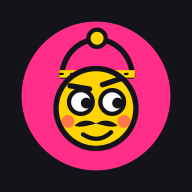
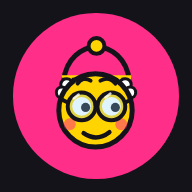
Slogans in Tamil/Bengali/Marathi/pan-India, Crowd wall, new Gyanu look
Claude-Session: https://claude.ai/code/session_01NcgF8VnE75NBUtn5BQALan

Changed region(s): [[0.0625, 0.0625, 0.9375, 0.9375]]

diff --git a/js/app.js b/js/app.js
@@ -1,6 +1,6 @@
 // GYANU HUNT · the player app. Vanilla JS, no framework, one module graph.
 import { CONFIG, ZONES, SCENE_CATS } from './config.js';
-import { T, SLOGANS, RULES_COPY, INTRO, TOUR, gsay } from './copy.js';
+import { T, SLOGANS, SLOGAN_SETS, SLOGAN_LANGS, defaultSloganLang, scriptOf, RULES_COPY, INTRO, TOUR, gsay } from './copy.js';
 import { RULES, speedBonus } from './rules.js';
 import { backend, cleanNick, cleanSlogan } from './backend.js';
 import { analyse, verify } from './verify.js';
@@ -62,18 +62,23 @@ function fillStatic() {
   document.querySelectorAll('#nav button').forEach(b => (b.querySelector('span').textContent = T.nav[b.dataset.v] || 'SCENE'));
 }
 
-let chosenSlogan = SLOGANS[0], wantHome = false, otpOk = CONFIG.otp === 'off', demoCode = null;
+let wantHome = false, otpOk = CONFIG.otp === 'off', demoCode = null;
+let sloganLang = defaultSloganLang(), chosenSlogan = SLOGAN_SETS[sloganLang][0];
+const langTabsHtml = (cur, attr = 'data-l') => SLOGAN_LANGS.map(([id, label]) => `<button class="chip${cur === id ? ' on' : ''}" ${attr}="${id}">${esc(label)}</button>`).join('');
+function renderJoinSlogans() {
+  const box = $('#slogans'), customOn = chosenSlogan === null;
+  $('#sloganLangs').innerHTML = langTabsHtml(sloganLang);
+  box.innerHTML = SLOGAN_SETS[sloganLang].map(x => `<button class="chip${x === chosenSlogan ? ' on' : ''}" data-s="${esc(x)}">${esc(x)}</button>`).join('') + `<button class="chip${customOn ? ' on' : ''}" data-custom="1">✍ ${esc(T.sloganCustom)}</button>`;
+}
 function showJoin(home) {
   wantHome = !!home;
   $('#landing').classList.add('hide'); $('#join').classList.remove('hide');
-  const box = $('#slogans');
-  const first = 0; chosenSlogan = SLOGANS[0];
-  box.innerHTML = SLOGANS.map((s, i) => `<button class="chip${i === first ? ' on' : ''}" data-s="${esc(s)}">${esc(s)}</button>`).join('') + `<button class="chip" data-custom="1">✍ ${esc(T.sloganCustom)}</button>`;
-  box.onclick = e => {
+  sloganLang = defaultSloganLang(); chosenSlogan = SLOGAN_SETS[sloganLang][0]; renderJoinSlogans();
+  $('#sloganLangs').onclick = e => { const b = e.target.closest('[data-l]'); if (!b) return; sloganLang = b.dataset.l; renderJoinSlogans(); };
+  $('#slogans').onclick = e => {
     const b = e.target.closest('button'); if (!b) return;
-    box.querySelectorAll('.chip').forEach(c => c.classList.remove('on')); b.classList.add('on');
     const custom = !!b.dataset.custom; $('#sloganCustom').classList.toggle('hide', !custom);
-    chosenSlogan = custom ? null : b.dataset.s; if (custom) $('#sloganCustom').focus();
+    chosenSlogan = custom ? null : b.dataset.s; renderJoinSlogans(); if (custom) $('#sloganCustom').focus();
   };
   $('#otpBox').classList.toggle('hide', CONFIG.otp === 'off');
   $('#nick').focus();
@@ -166,7 +171,7 @@ function renderStatus(offline) {
   const s = st?.stats, chips = [];
   if (offline) chips.push(`<span class="chip alert">📶 weak network — retrying</span>`);
   if (st?.settings.finalLive) chips.push(`<span class="chip alert">FINAL GYANU LIVE</span>`);
-  if (s) chips.push(`<span class="chip">🟢 ${s.online} hunting</span>`, `<span class="chip">🎯 ${s.caught} caught today</span>`);
+  if (s) chips.push(`<span class="chip">🟢 ${s.online} hunting</span>`, `<span class="chip">🎯 ${s.caught} caught today</span>`, `<button class="chip crowdchip" data-crowd="1">🪧 ${fmt(s.crowd || 0)} in the crowd</button>`);
   if (s?.busy?.length) chips.push(`<span class="chip alert">⚠ busy: ${s.busy.map(z => ZONES.find(q => q.id === z)?.short).join(', ')}</span>`);
   $('#status').innerHTML = chips.join('');
 }
@@ -574,10 +579,14 @@ async function renderProfile() {
     <button class="btn" style="background:var(--red);color:#fff" id="delMe">${esc(T.deleteBtn)}</button></div>`;
   $('#pShare').onclick = () => doShare(); $('#pW').onclick = startWhack;
   $('#editSl').onclick = () => {
-    const o = layer(`<h2 class="big" style="font-size:34px">NEW PLACARD</h2><div class="slogans" style="justify-content:center;margin:12px 0">${SLOGANS.map(s => `<button class="chip" data-s="${esc(s)}">${esc(s)}</button>`).join('')}</div>
+    let pl = defaultSloganLang();
+    const o = layer(`<h2 class="big" style="font-size:34px">NEW PLACARD</h2><div class="langtabs" id="pLangs" style="justify-content:center;margin-top:10px"></div><div class="slogans" id="pSl" style="justify-content:center;margin:12px 0"></div>
       <input class="field" id="sl2" maxlength="60" placeholder="${esc(T.sloganPh)}" style="max-width:360px"><p class="err" id="sle"></p>
       <div class="sw stack"><button class="btn pink" id="slGo">SAVE</button><button class="link" style="color:#fff" id="slX">cancel</button></div>`);
-    o.querySelector('.slogans').onclick = e => { const b = e.target.closest('[data-s]'); if (b) { o.querySelector('#sl2').value = b.dataset.s; o.querySelectorAll('.slogans .chip').forEach(c => c.classList.toggle('on', c === b)); } };
+    const paint = () => { o.querySelector('#pLangs').innerHTML = langTabsHtml(pl); o.querySelector('#pSl').innerHTML = SLOGAN_SETS[pl].map(x => `<button class="chip${o.querySelector('#sl2').value === x ? ' on' : ''}" data-s="${esc(x)}">${esc(x)}</button>`).join(''); };
+    paint();
+    o.querySelector('#pLangs').onclick = e => { const b = e.target.closest('[data-l]'); if (b) { pl = b.dataset.l; paint(); } };
+    o.querySelector('#pSl').onclick = e => { const b = e.target.closest('[data-s]'); if (b) { o.querySelector('#sl2').value = b.dataset.s; paint(); } };
     o.querySelector('#slX').onclick = () => o.remove();
     o.querySelector('#slGo').onclick = async () => { try { await backend.setSlogan(o.querySelector('#sl2').value); o.remove(); await refresh(); renderProfile(); } catch (e) { o.querySelector('#sle').textContent = e.message; } };
   };
@@ -590,6 +599,40 @@ async function renderProfile() {
       o.innerHTML = `<h2 class="big" style="font-size:36px">${esc(T.deleted)}</h2>`; setTimeout(() => location.reload(), 1200);
     };
   };
+}
+
+// ---------------------------------------------------------------- the crowd wall
+// A head-count and the placards people carry. No names, no scores, no locations. Anyone can look; anyone can join.
+async function openCrowd() {
+  if (document.querySelector('.wall')) return;
+  const joined = !!backend.meId(); let data = { total: 0, slogans: [] }, lang = 'all', picked = null, alive = true;
+  const o = layer('', 'wall');
+  const paint = () => {
+    const list = data.slogans.filter(x => lang === 'all' || scriptOf(x.s) === lang || (lang === 'hinglish' && scriptOf(x.s) === 'latin'));
+    const tabs = [['all', 'All'], ['hinglish', 'Hinglish / English'], ['tamil', 'தமிழ்'], ['bengali', 'বাংলা'], ['marathi', 'मराठी / हिंदी']];
+    o.innerHTML = `<div class="wallcard"><button class="fbx" id="wX" aria-label="Close">✕</button>
+      <h2>THE CROWD</h2>
+      <div class="wallcount"><b>${fmt(data.total)}</b><span>${data.total === 1 ? 'person' : 'people'} in the hunt right now</span></div>
+      <p class="wallsub">At the ground or on the couch, everyone counts. Outsiders welcome. Hunt, whack, chant and share, same game for all.</p>
+      <div class="langtabs">${tabs.map(([id, l]) => `<button class="chip${lang === id ? ' on' : ''}" data-wl="${id}">${esc(l)}</button>`).join('')}</div>
+      <div class="wallgrid">${list.length ? list.map((x, i) => `<button class="placard c${i % 5}${picked === x.s ? ' sel' : ''}" data-p="${i}" style="--r:${((i * 37) % 7 - 3) * 0.6}deg">${esc(x.s)}${x.n > 1 ? `<i>×${fmt(x.n)}</i>` : ''}</button>`).join('') : '<p class="wallsub">No placards here yet. Be the first.</p>'}</div>
+      ${picked && joined ? `<button class="btn" id="wWear">🪧 WEAR THIS PLACARD</button>` : ''}
+      <button class="btn pink" id="wJoin">${joined ? '✍ CHANGE MY PLACARD' : 'JOIN THE CROWD'}</button></div>`;
+    o.querySelector('#wX').onclick = close;
+    o.querySelectorAll('[data-wl]').forEach(b => (b.onclick = () => { lang = b.dataset.wl; paint(); }));
+    o.querySelectorAll('[data-p]').forEach(b => (b.onclick = () => { picked = picked === list[+b.dataset.p].s ? null : list[+b.dataset.p].s; play('tap'); paint(); }));
+    o.querySelector('#wWear')?.addEventListener('click', async () => { try { await backend.setSlogan(picked); toast('You’re carrying that placard now 🪧'); play('level'); close(); refresh(); } catch (e) { toast(e.message); } });
+    o.querySelector('#wJoin').onclick = () => { close(); if (joined) { go('profile'); } else { $('#landing').classList.add('hide'); showJoin(false); } };
+  };
+  const close = () => { alive = false; o.remove(); };
+  const load = async () => { try { data = await backend.crowd(); if (alive && !picked) paint(); else if (alive) { /* keep selection stable */ } } catch {} };
+  paint(); await load(); const iv = setInterval(() => (alive ? load() : clearInterval(iv)), 8000);
+}
+async function landingCrowd() {
+  try {
+    const c = await backend.crowd(); if (!c?.total) return;
+    const l = $('#crowdLink'); l.style.display = ''; l.textContent = `🪧 ${fmt(c.total)} already in the crowd · peek at the placards`; l.onclick = openCrowd;
+  } catch {}
 }
 
 // ---------------------------------------------------------------- whack-a-gyanu (at home)
@@ -654,6 +697,8 @@ function boot() {
   fillStatic();
   $('#playBtn').onclick = () => showJoin(false);
   $('#homeLink').onclick = () => showJoin(true);
+  $('#status').addEventListener('click', e => { if (e.target.closest('[data-crowd]')) openCrowd(); });
+  if (!backend.meId()) landingCrowd();
   $('#introBtn').onclick = () => runTour(INTRO, { auto: true, doneLabel: 'LET’S PLAY' });
   setInterval(() => { // Gyanu pops up now and then with a share-what-you-know nudge
     if (document.hidden || $('#game').classList.contains('hide') || $('#layer').children.length || tourOpen() || whack || document.querySelector('.gtip')) return;

diff --git a/js/copy.js b/js/copy.js
@@ -1,22 +1,68 @@
 // GYANU HUNT · every word the player sees. Gen Z, Mumbai Hinglish, self-roasting.
 // Edit freely — nothing else needs to change.
 
-export const SLOGANS = [
-  'Soda lemon ginger pop, Gyanu bhai is a flop',
-  'Go Gyanu go! (no seriously, go)',
-  'Ek do teen chaar, Gyanu ab toh haar',
-  'Unemployed? Yes. Undefeated? Also yes.',
-  'Chronically online, briefly outside',
-  'Lazy legend, Gyanu finder',
-  'Kaun Gyanu? Mil gaya Gyanu',
-  'Ek Gyanu, hazaar camera',
-  'Touching grass, catching Gyanu',
-  'Cutting chai, cutting Gyanu’s hiding streak',
-  'Hide & seek champion? Not on my watch',
-  'Gyanu, log out',
-  'It’s giving… found you',
-  'My screen time finally paid off'
-];
+// Placards, grouped by language so people across India can wear one that feels like home.
+export const SLOGAN_SETS = {
+  hinglish: [
+    'Soda lemon ginger pop, Gyanu bhai is a flop',
+    'Go Gyanu go! (no seriously, go)',
+    'Ek do teen chaar, Gyanu ab toh haar',
+    'Unemployed? Yes. Undefeated? Also yes.',
+    'Chronically online, briefly outside',
+    'Lazy legend, Gyanu finder',
+    'Kaun Gyanu? Mil gaya Gyanu',
+    'Ek Gyanu, hazaar camera',
+    'Touching grass, catching Gyanu',
+    'Cutting chai, cutting Gyanu’s hiding streak',
+    'Hide & seek champion? Not on my watch',
+    'Gyanu, log out',
+    'It’s giving… found you',
+    'My screen time finally paid off',
+    'Gyanu bhai, bahar aao, ghar jaana hai',
+    'Bas ek photo, Gyanu. Bas ek.',
+    'Aaj ka plan: Gyanu hunt. Kal ka plan: neend.',
+    'Scroll chhod, Gyanu pakad',
+    'Mera dil, mera Gyanu, mera 5% battery',
+    'Gyanu, tera time aa gaya'
+  ],
+  tamil: [
+    'ஞானு எங்கே? நாங்க கண்டுபிடிப்போம்!',
+    'ஒரு டீ குடிச்சிட்டு ஞானுவைத் தேடுவோம் ☕',
+    'ஞானு, ஞானு… வெளியே வா!',
+    'ஓடாதீங்க, நடந்தே தேடுங்க, ஞானு எங்கயும் போகல',
+    'ஞானுவைப் பிடிச்சா பாயிண்ட்ஸ் தான்!',
+    'போனை எடு, ஞானுவைத் தேடு'
+  ],
+  bengali: [
+    'জ্ঞানু কোথায়? খুঁজে বের করবোই!',
+    'এক কাপ চা আর জ্ঞানু খোঁজা ☕',
+    'জ্ঞানুদা, এবার বেরিয়ে এসো!',
+    'দৌড়িও না, হেঁটে খোঁজো, জ্ঞানু কোথাও যাচ্ছে না',
+    'জ্ঞানুকে ধরলেই পয়েন্ট!',
+    'আড্ডাও চাই, জ্ঞানুও চাই'
+  ],
+  marathi: [
+    'ज्ञानू कुठे आहे? आम्ही शोधणारच!',
+    'कटिंग चहा प्या, ज्ञानूला शोधा ☕',
+    'ज्ञानूभाऊ, आता बाहेर या!',
+    'पळू नका, चालत शोधा, ज्ञानू कुठे जात नाही',
+    'ज्ञानू सापडला की पॉइंट्स पक्के!'
+  ],
+  pan: [
+    'Delhi to Chennai, Mumbai to Kolkata: find Gyanu 🪳',
+    'Gyanu in every language, found in none (yet)',
+    '404: Gyanu not found',
+    'Walk, snap, share. Gyanu hates it.',
+    'Ctrl + Alt + Gyanu',
+    'Chai, chill, catch Gyanu ☕',
+    'Gyanu, we have your location. (We don’t.)'
+  ]
+};
+export const SLOGAN_LANGS = [['hinglish', 'Hinglish'], ['tamil', 'தமிழ்'], ['bengali', 'বাংলা'], ['marathi', 'मराठी'], ['pan', 'Pan-India']];
+export const SLOGANS = Object.values(SLOGAN_SETS).flat();
+export const defaultSloganLang = () => { const l = (navigator.language || '').toLowerCase(); return l.startsWith('ta') ? 'tamil' : l.startsWith('bn') ? 'bengali' : l.startsWith('mr') ? 'marathi' : 'hinglish'; };
+// Which script is a placard written in? Used by the Crowd wall filter.
+export const scriptOf = t => /[\u0B80-\u0BFF]/.test(t) ? 'tamil' : /[\u0980-\u09FF]/.test(t) ? 'bengali' : /[\u0900-\u097F]/.test(t) ? 'marathi' : 'latin';
 
 export const T = {
   tagline: 'Can you spot Gyanu?',

diff --git a/js/backend.js b/js/backend.js
@@ -8,6 +8,8 @@
 import { CONFIG, ZONES, SCENE_CATS } from './config.js';
 import { RULES, scoreFind } from './rules.js';
 import { hamming } from './verify.js';
+import { SLOGANS } from './copy.js';
+const PRESETS = new Set(SLOGANS);
 
 const uid = (p = '') => p + Math.random().toString(36).slice(2, 8) + Date.now().toString(36).slice(-4);
 const now = () => Date.now();
@@ -26,6 +28,10 @@ export function cleanSlogan(raw) {
   const s = String(raw || '').replace(/[<>]/g, '').replace(/\s+/g, ' ').trim().slice(0, 60);
   if (!s) return { slogan: '' };
   if (rude(s)) return { error: 'Keep the placard roast-y, not abusive.' };
+  if (/https?:|www\.|@/i.test(s) || /\d{6,}/.test(s.replace(/[\s-]/g, ''))) return { error: 'No links, emails or phone numbers on a placard.' };
+  // Custom placards must be in English letters/emoji (our rude-word check can't read other scripts).
+  // Tamil, Bengali, Marathi and Hindi placards come from the ready-made list.
+  if (/[^\u0000-\u024F\u2000-\u2BFF\uFE0F\u{1F000}-\u{1FAFF}]/u.test(s) && !PRESETS.has(s)) return { error: 'Custom placards need English letters. Pick a ready-made one for Tamil, Bengali, Marathi or Hindi.' };
   return { slogan: s };
 }
 export const avatarFor = id => {
@@ -121,6 +127,7 @@ export class LocalBackend {
     const t0 = startOfToday(), live = this.liveScene(db);
     return {
       online: db.players.filter(p => now() - (p.lastSeen || 0) < 5 * 60e3).length,
+      crowd: db.players.filter(p => !p.banned).length,
       caught: db.subs.filter(s => s.status === 'approved' && s.createdAt >= t0).length,
       hypeWins: db.settings.hypeWins || 0,
       water: live.filter(r => r.cat === 'water').length,
@@ -334,6 +341,13 @@ export class LocalBackend {
     localStorage.removeItem(ME);
   }
 
+  // ---------------- the crowd wall: head-count + placards, nothing else ----------------
+  async crowd() {
+    const db = this.load(), live = db.players.filter(p => !p.banned), by = new Map();
+    for (const p of live) if (p.slogan) { const e = by.get(p.slogan) || { s: p.slogan, n: 0, t: 0 }; e.n++; e.t = Math.max(e.t, p.createdAt || 0); by.set(p.slogan, e); }
+    return { total: live.length, slogans: [...by.values()].sort((a, b) => b.n - a.n || b.t - a.t).slice(0, 120).map(({ s, n }) => ({ s, n })) };
+  }
+
   // ---------------- suggestion box ----------------
   async feedback(f) {
     const db = this.load(); db.feedback = db.feedback || []; const me = this.me(db);
@@ -420,6 +434,7 @@ export class LocalBackend {
         }
         break;
       }
+      case 'clearSlogan': { const p = P(a.id); if (p) p.slogan = ''; break; }
       case 'ban': { const p = P(a.id); if (p) p.banned = !!a.on; break; }
       case 'resetScores':
         db.players.forEach(p => { p.score = 0; p.finds = 0; p.streak = 0; p.bestStreak = 0; p.lastZone = null; p.todayBase = 0; p.notices = []; p.homeBest = 0; });
@@ -511,6 +526,7 @@ export class SupabaseBackend {
     return r;
   }
   async history() { return this.rpc('gh_history', { p_token: this.tok() }); }
+  async crowd() { return this.rpc('gh_crowd', {}); }
   async feedback(f) { return this.rpc('gh_feedback', { p_token: this.tok(), p_kind: f.kind, p_text: f.text, p_mood: f.mood || null, p_ctx: f.ctx || {}, p_audio: f.audio || null, p_mime: f.mime || null }); }
   async deleteMe() { await this.rpc('gh_delete_me', { p_token: this.tok() }); localStorage.removeItem(ME); }
   async admin(action, a = {}) {

diff --git a/css/app.css b/css/app.css
@@ -79,7 +79,7 @@ input.field:focus{box-shadow:0 0 0 4px var(--yellow)}
 .nav button.on{color:var(--yellow)}.nav button.on i{filter:none;transform:scale(1.12)}
 
 /* hunt view */
-.status{position:absolute;left:10px;top:10px;right:10px;display:flex;gap:6px;flex-wrap:wrap;pointer-events:none}
+.status{position:absolute;left:10px;top:10px;right:58px;display:flex;gap:6px;flex-wrap:wrap;pointer-events:none}.status .crowdchip{pointer-events:auto;font-family:var(--body)}
 .status .chip{background:rgba(21,19,26,.86);color:#fff;border-color:rgba(255,255,255,.35);font-size:12px;padding:4px 9px}
 .status .chip.alert{background:var(--red)}
 .zoombtns{position:absolute;right:10px;top:46px;display:flex;flex-direction:column;gap:6px}
@@ -243,3 +243,21 @@ input.field:focus{box-shadow:0 0 0 4px var(--yellow)}
 .ov .gsays{margin:14px auto 0;max-width:340px}
 .gtip{position:absolute;left:12px;right:12px;bottom:calc(var(--nav) + 12px);z-index:40;display:flex;align-items:center;gap:10px;background:var(--yellow);color:var(--ink);border:3px solid var(--ink);border-radius:14px;padding:8px 12px 8px 8px;box-shadow:4px 4px 0 var(--pink);animation:up .3s ease-out both}
 .gtip img{width:40px;height:42px}.gtip b{display:block;font:800 14.5px/1.25 var(--body)}.gtip small{display:block;font:600 12px var(--body);color:#5a4a00}
+
+/* slogan language tabs + the crowd wall */
+.langtabs{display:flex;gap:6px;overflow-x:auto;padding:2px 0 8px;margin:0 -2px;scrollbar-width:none}.langtabs::-webkit-scrollbar{display:none}
+.langtabs .chip{flex:none;font-size:13px}.ov .langtabs .chip{color:var(--ink)}.ov .langtabs .chip.on,.langtabs .chip.on{background:var(--ink);color:var(--yellow)}
+.status .crowdchip{background:var(--yellow);color:var(--ink);border-color:var(--ink);font-weight:800}
+#crowdLink{color:#fff;font-weight:800;margin-top:6px}
+.ov.wall{padding:14px;z-index:36}
+.wallcard{position:relative;background:#FFF8EA;color:var(--ink);border:3px solid var(--ink);border-radius:18px;padding:16px 14px 14px;width:100%;max-width:440px;max-height:100%;overflow:auto;box-shadow:6px 6px 0 var(--pink);text-align:left}
+.wallcard h2{font:26px/1 var(--display);margin:0 30px 6px 0;color:var(--ink)}
+.wallcount{display:flex;align-items:baseline;gap:8px;background:var(--ink);color:#fff;border-radius:12px;padding:8px 12px;margin:6px 0 8px}
+.wallcount b{font:38px/1 var(--display);color:var(--yellow)}.wallcount span{font-weight:700;font-size:13px}
+.ov .wallcard p.wallsub{font-weight:600;font-size:13px;color:#444;margin:0 0 8px;max-width:none}
+.wallgrid{display:flex;flex-wrap:wrap;gap:10px 8px;margin:8px 0 12px;max-height:46vh;overflow:auto;padding:6px 4px}
+.placard{position:relative;font:800 13.5px/1.25 var(--body);color:var(--ink);text-align:left;border:2.5px solid var(--ink);border-radius:4px;padding:8px 10px 8px 10px;max-width:100%;transform:rotate(var(--r,0deg));box-shadow:3px 3px 0 var(--ink)}
+.placard.c0{background:#fff}.placard.c1{background:#FFE98A}.placard.c2{background:#FFC2DD}.placard.c3{background:#BDEFE9}.placard.c4{background:#FFD3A8}
+.placard i{font:normal 800 11px var(--display);position:absolute;right:-8px;top:-9px;background:var(--pink);color:#fff;border:2px solid var(--ink);border-radius:999px;padding:2px 6px}
+.placard.sel{outline:4px solid var(--pink);transform:rotate(0) scale(1.04);z-index:1}
+.wallcard .btn{width:100%;margin-top:8px}

diff --git a/js/admin.js b/js/admin.js
@@ -158,6 +158,7 @@ const wire = {
   },
   players() {
     $('#pq').oninput = e => document.querySelectorAll('#ptab tr[data-n]').forEach(r => (r.style.display = r.dataset.n.includes(e.target.value.toUpperCase()) ? '' : 'none'));
+    document.querySelectorAll('[data-pclr]').forEach(b => (b.onclick = () => act('clearSlogan', { id: b.dataset.pclr }, 'Placard removed')));
     document.querySelectorAll('[data-pban]').forEach(b => (b.onclick = () => act('ban', { id: b.dataset.pban, on: b.dataset.on === '1' }, b.dataset.on === '1' ? 'Banned' : 'Unbanned')));
   },
   settings() {
@@ -228,7 +229,7 @@ function crowd() {
 // ---------- PLAYERS / BOARD / SETTINGS
 function players() {
   return `<div class="card"><h2>PLAYERS (${S.players.length})</h2><input id="pq" placeholder="search nickname" style="max-width:300px;margin-bottom:8px">
-    <table id="ptab"><tr><th>NICK</th><th>SLOGAN</th><th>SCORE</th><th>FOUND</th><th></th></tr>${S.players.map(p => `<tr data-n="${esc(p.nick)}"><td><b>${esc(p.nick)}</b>${p.bot ? ' <span class="tag">demo</span>' : ''}${p.banned ? ' <span class="tag final">BANNED</span>' : ''}</td><td class="mut">${esc(p.slogan)}</td><td>${p.score}</td><td>${p.finds}</td><td><button class="b ${p.banned ? 'g' : 'r'} sm" data-pban="${p.id}" data-on="${p.banned ? 0 : 1}">${p.banned ? 'UNBAN' : 'BAN'}</button></td></tr>`).join('')}</table>
+    <table id="ptab"><tr><th>NICK</th><th>SLOGAN</th><th>SCORE</th><th>FOUND</th><th></th></tr>${S.players.map(p => `<tr data-n="${esc(p.nick)}"><td><b>${esc(p.nick)}</b>${p.bot ? ' <span class="tag">demo</span>' : ''}${p.banned ? ' <span class="tag final">BANNED</span>' : ''}</td><td class="mut">${esc(p.slogan)}${p.slogan ? ` <button class="b k sm" data-pclr="${p.id}" title="Remove this placard">✕</button>` : ''}</td><td>${p.score}</td><td>${p.finds}</td><td><button class="b ${p.banned ? 'g' : 'r'} sm" data-pban="${p.id}" data-on="${p.banned ? 0 : 1}">${p.banned ? 'UNBAN' : 'BAN'}</button></td></tr>`).join('')}</table>
     <p class="mut" style="margin-top:8px">The control room never sees phone numbers — they live (if OTP is on) only in the auth provider.</p></div>`;
 }
 function board() {

diff --git a/index.html b/index.html
@@ -30,6 +30,7 @@
     <p class="sub" id="landSub"></p>
     <button class="btn pink" id="playBtn">PLAY NOW</button>
     <button class="link" id="homeLink"></button>
+    <button class="link" id="crowdLink" style="display:none"></button>
     <button class="link" id="introBtn">🎧 HOW TO PLAY · 40 SEC</button>
     <p class="safety" id="landSafety"></p>
     <p class="credit" id="landCredit"></p>
@@ -43,6 +44,7 @@
       <input class="field" id="nick" maxlength="12" autocomplete="off" autocapitalize="characters" placeholder="e.g. CHAIWALA">
       <h2 style="font-size:24px;margin-top:20px" id="sloganTitle"></h2>
       <p class="muted small" id="sloganHelp"></p>
+      <div class="langtabs" id="sloganLangs"></div>
       <div class="slogans" id="slogans"></div>
       <input class="field hide" id="sloganCustom" maxlength="60">
       <div id="otpBox" class="hide stack">
